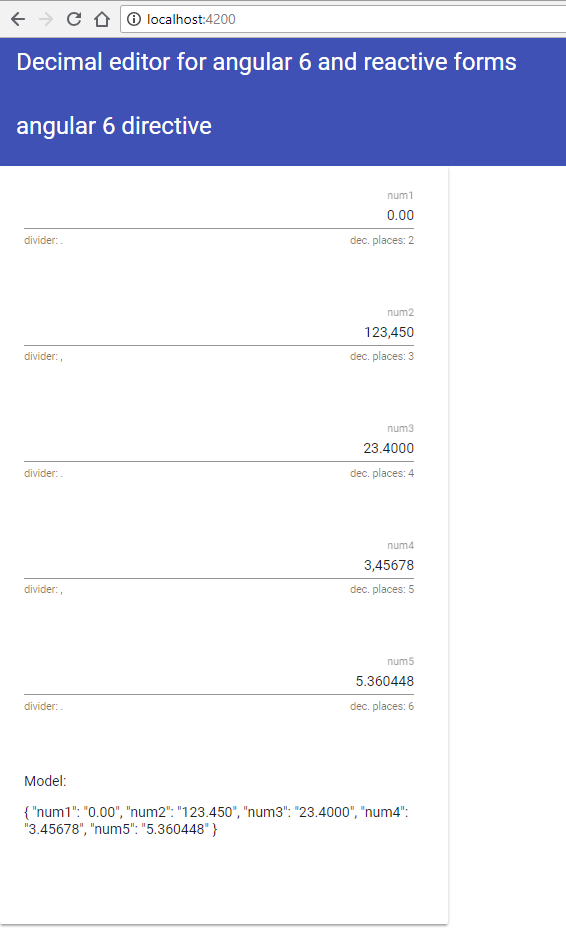
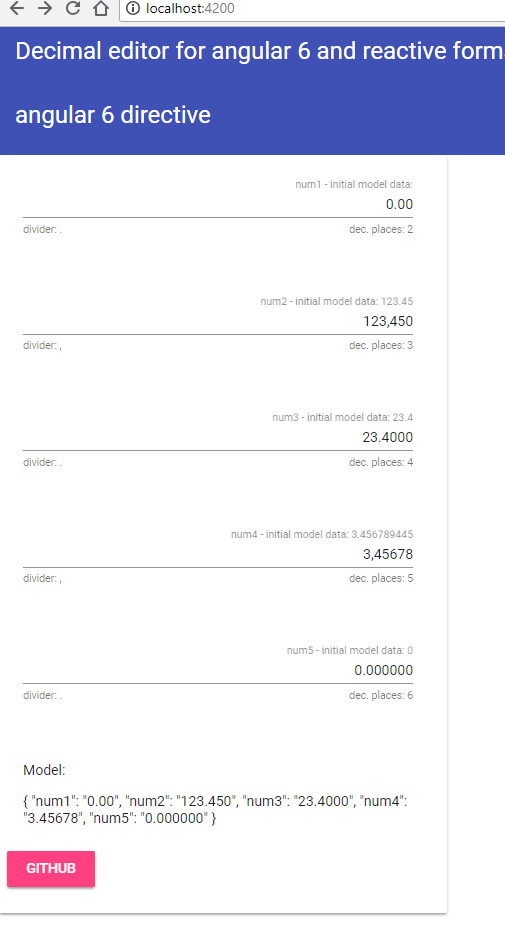
doc

diff --git a/src/app/sample/sample.component.html b/src/app/sample/sample.component.html
@@ -1,7 +1,7 @@
 <form [formGroup]="form" class="arrange-vertically">
 
   <mat-form-field *ngFor="let fld of fields" [hintLabel]="'divider: ' + fld.divider">
-    <input matInput [formControlName]="fld.name" [placeholder]="fld.name"
+    <input matInput [formControlName]="fld.name" [placeholder]="fld.name + ' - initial model data: ' + fld.value"
     appCurrency [formControl]="form.get(fld.name)"
     [decimalCount]="fld.dplaces" [decimalChar]="fld.divider"
 

diff --git a/src/app/sample/sample.component.ts b/src/app/sample/sample.component.ts
@@ -14,7 +14,7 @@ export class SampleComponent implements OnInit {
     { name: 'num1', value: '', divider: '.', dplaces: 2 },
     { name: 'num2', value: 123.45, divider: ',', dplaces: 3 },
     { name: 'num3', value: '23.4', divider: '.', dplaces: 4 },
-    { name: 'num4', value: '3.456789', divider: ',', dplaces: 5 },
+    { name: 'num4', value: '3.456789445', divider: ',', dplaces: 5 },
     { name: 'num5', value: 0, divider: '.', dplaces: 6 }
 
   ];

diff --git a/src/app/app-dashboard/app-dashboard.component.html b/src/app/app-dashboard/app-dashboard.component.html
@@ -17,5 +17,9 @@
     <mat-card-content>
       <app-sample></app-sample>
     </mat-card-content>
+    <mat-card-actions>
+      <a href="https://github.com/b-mi/ngx-currency-directive" mat-raised-button color="accent">GITHUB</a>
+
+    </mat-card-actions>
   </mat-card>
 </div>

diff --git a/README.md b/README.md
@@ -8,11 +8,11 @@ This project was generated with [Angular CLI](https://github.com/angular/angular
   - formControlName + formGroup properties
   - formControl property
 - Configurable decimal separator - default is ','
-  - decimalChar
-  - CurrencyDirective.defaultDecimalChar
+  - decimalChar (input property)
+  - CurrencyDirective.defaultDecimalChar (global setting)
 - Configurable decimal count - default is 2
-  - decimalCount
-  - CurrencyDirective.defaultDecimalCount
+  - decimalCount (input property)
+  - CurrencyDirective.defaultDecimalCount  (global setting
 - Auto align decimal count
 - Editing similar to desktop applications
 - Tested with Angular Material 6 (no depenednecy on angular material)
